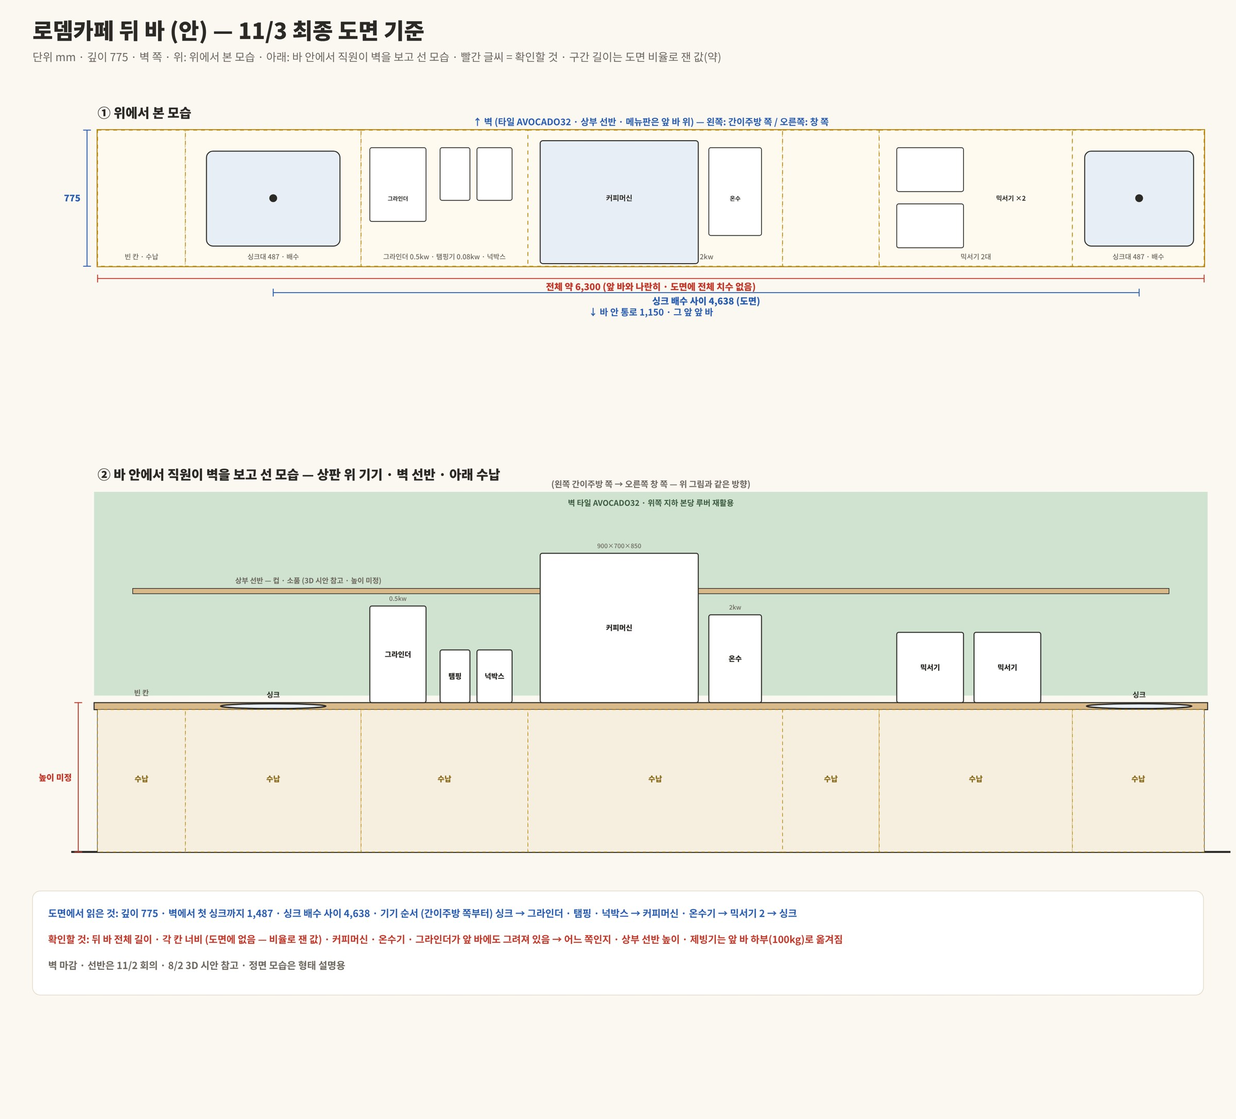
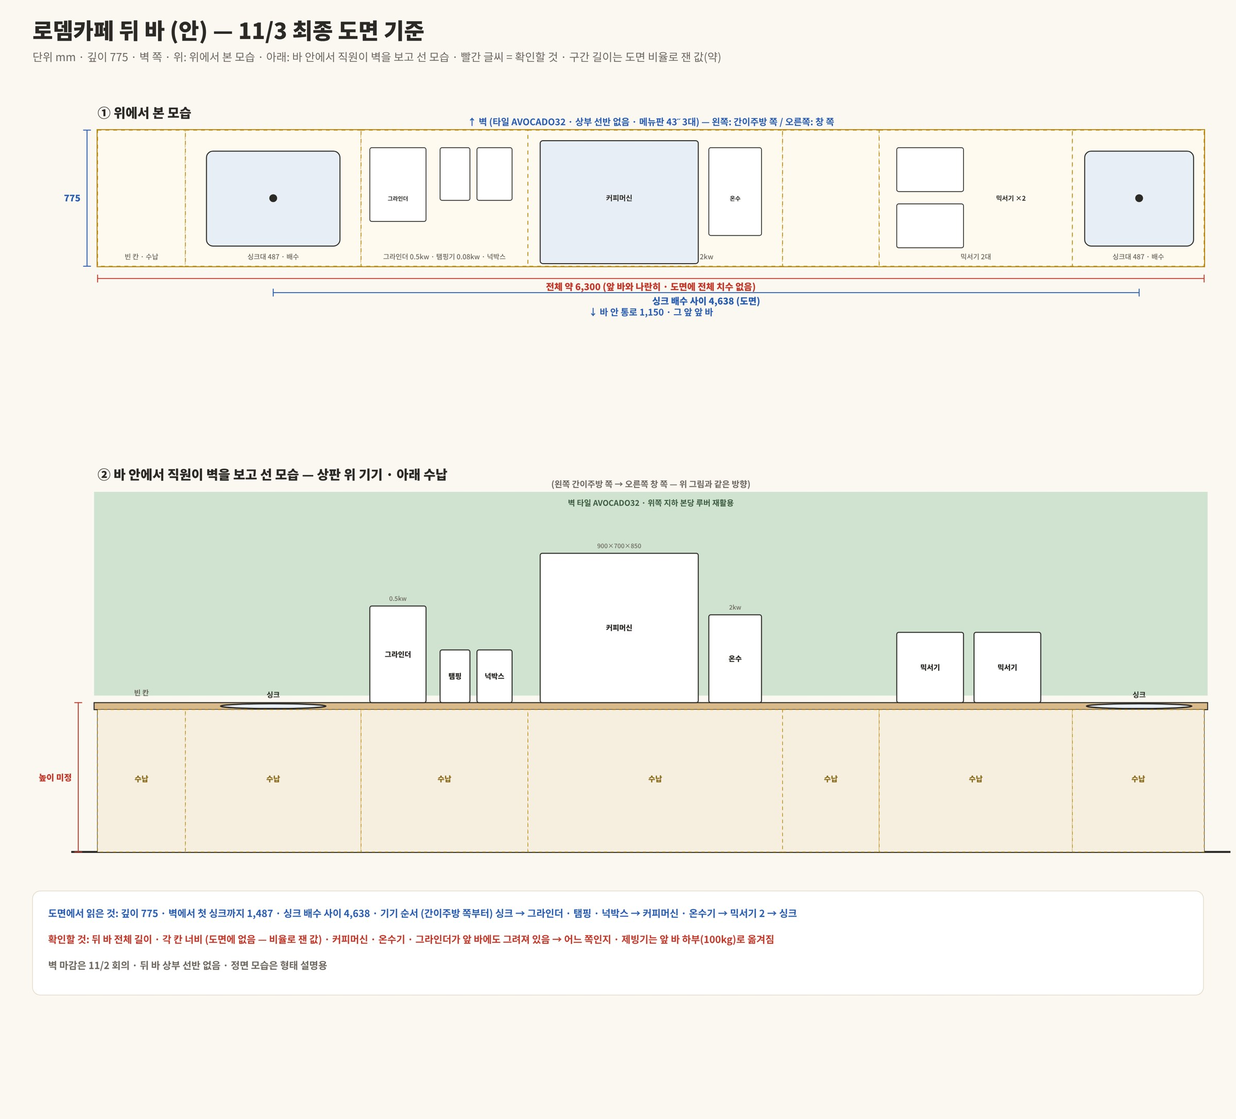
뒤 바 상부 선반 없음 — 그림·스펙에서 제거
Claude-Session: https://claude.ai/code/session_01KGSeNsWMpvg4KUGj47PaMD

diff --git a/gsmch-1f-cafe-bars.html b/gsmch-1f-cafe-bars.html
@@ -21,6 +21,6 @@ h1{font-family:'Gowun Batang',serif;font-size:28px;margin:18px 0 4px}.lead{color
 <h1>로뎀카페 공간 그림 (안) — 9장</h1>
 <p class="lead">11/3 최종 도면 치수와 11/2 현장 미팅 내용으로 그렸습니다. 파란 글씨는 도면에 적힌 값, 빨간 글씨는 확인할 것입니다. 건축위 · 인테리어 업체와 맞춰 본 뒤 확정합니다.</p>
 <nav class="nav"><a href="#v1">1. 홀 전체</a><a href="#v2">2. 앞 바 — 손님이 보는 모습 (도면 ELE.02)</a><a href="#v3">3. 카페 안에서 본 정면 · 주문현황판 (도면 ELE.01)</a><a href="#v4">4. 서비스바</a><a href="#v5">5. 앞 바 · 뒤 바 · 서비스바 평면 (11/3 실시설계)</a><a href="#v6">6. 앞 바 (안) — 위에서 본 모습 · 바 안에서 직원이 서서 본 모습</a><a href="#v7">7. 뒤 바 (안) — 위에서 본 모습 · 직원이 벽을 보고 선 모습</a><a href="#v8">8. 앞 바 — 칸 구성 · 상판 기물 (3D 시안)</a><a href="#v9">9. 뒤 바 — 칸 구성 · 상판 기물 (3D 시안)</a><a href="#v10">10. 뒤 바 — 벽 정면 (도면 ELE.02')</a><a href="#v11">11. 앞 바 반대편 끝 벽 (도면 ELE.04)</a><a href="#v12">12. 간이주방</a><a href="#v13">13. 창고</a><a href="#v14">14. 창 쪽 벽 (도면 ELE.03)</a></nav>
-<section class="page" id="v1"><div class="bar"><b>1. 홀 전체</b><span>위에서 본 모습 · 뒤 바 775 · 통로 1,150 · 앞 바 875 · 서비스바 4,200×700 (앞 바에서 1,600) · 간이주방 · 창고</span><a class="tbtn" href="img/gsmch-1f-cafe-view-1.jpg" download="gsmch_카페_1_홀 전체_1104.jpg">JPG</a></div><img src="img/gsmch-1f-cafe-view-1.jpg" alt="홀 전체" loading="lazy"><div class="cap"><b>확인할 것</b> 메뉴판 3대는 뒤 바 위, 현황판은 정면 가운데 위 · 반납함 · 키오스크 자리 확인</div></section><section class="page" id="v2"><div class="bar"><b>2. 앞 바 — 손님이 보는 모습 (도면 ELE.02)</b><span>9,645 = 루버 벽 2,450 + 7,195 · 앞 바 높이 1,050 · 사인 띠 450 · 메뉴판 43˝ 3대 970×558 (1,842~2,400) · 키오스크 매립 450</span><a class="tbtn" href="img/gsmch-1f-cafe-view-2.jpg" download="gsmch_카페_2_앞 바_1104.jpg">JPG</a></div><img src="img/gsmch-1f-cafe-view-2.jpg" alt="앞 바 — 손님이 보는 모습 (도면 ELE.02)" loading="lazy"><div class="cap"><b>확인할 것</b> 앞 바 시작 위치 · 메뉴판이 앞 바 위인지 뒤 바 위인지(두 도면 모두 표기) · 사인 글자 · 상판 우드톤</div></section><section class="page" id="v3"><div class="bar"><b>3. 카페 안에서 본 정면 · 주문현황판 (도면 ELE.01)</b><span>13,616 × 4,263 · 유리 2,249 + 200 + 루버 1,014 + 상부 800 · 자동문 3,369 · 현황판 43˝ 안쪽 가운데 위</span><a class="tbtn" href="img/gsmch-1f-cafe-view-3.jpg" download="gsmch_카페_3_카페 안에서 본 정면 · 주문현황판_1104.jpg">JPG</a></div><img src="img/gsmch-1f-cafe-view-3.jpg" alt="카페 안에서 본 정면 · 주문현황판 (도면 ELE.01)" loading="lazy"><div class="cap"><b>확인할 것</b> "가운데"가 유리 7,429 가운데인지 자동문 가운데인지 정면 전체 가운데인지 · 높이 · 콘센트 · 루버 보강</div></section><section class="page" id="v4"><div class="bar"><b>4. 서비스바</b><span>4,200 × 700 · 세척 2구 → 음료 버림 → 투입구 4개 → 아이스크림 · 앞 바에서 1,600 떨어진 섬</span><a class="tbtn" href="img/gsmch-1f-cafe-view-4.jpg" download="gsmch_카페_4_서비스바_1104.jpg">JPG</a></div><img src="img/gsmch-1f-cafe-view-4.jpg" alt="서비스바" loading="lazy"><div class="cap"><b>확인할 것</b> 폭 700/600 · 높이 · 다회용컵 투입구 / 반납함 따로 · 선반 깊이</div></section><section class="page" id="v5"><div class="bar"><b>5. 앞 바 · 뒤 바 · 서비스바 평면 (11/3 실시설계)</b><span>뒤 바 775 (싱크 ↔ 싱크 4,638) · 통로 1,150 · 앞 바 875 × 6,295 · 서비스바 700 (1,600 떨어짐) · 급배수 3곳</span><a class="tbtn" href="img/gsmch-1f-cafe-view-5.jpg" download="gsmch_카페_5_앞 바 · 뒤 바 · 서비스바 평면_1104.jpg">JPG</a></div><img src="img/gsmch-1f-cafe-view-5.jpg" alt="앞 바 · 뒤 바 · 서비스바 평면 (11/3 실시설계)" loading="lazy"><div class="cap"><b>확인할 것</b> 커피머신 · 온수기 어느 바인지(앞 바 점선) · 서비스바 폭 · 반납함 매립 여부</div></section><section class="page" id="v6"><div class="bar"><b>6. 앞 바 (안) — 위에서 본 모습 · 바 안에서 직원이 서서 본 모습</b><span>875 × 6,295 = 1,230 · 1,100 · 400 · 1,250 · 800 · 1,215 (칸 사이 60×5) · 하부: 쇼케이스 · 하부가구 · 넉박스 휴지통 · 연수필터 · (토핑)냉장고 · 제빙기</span><a class="tbtn" href="img/gsmch-1f-cafe-view-6.jpg" download="gsmch_카페_6_앞 바_1104.jpg">JPG</a></div><img src="img/gsmch-1f-cafe-view-6.jpg" alt="앞 바 (안) — 위에서 본 모습 · 바 안에서 직원이 서서 본 모습" loading="lazy"><div class="cap"><b>확인할 것</b> 커피머신 · 온수기 · 그라인더 · 탬핑기 어느 바인지 · 앞 바 깊이 875/825/830 · 높이 · 개폐형 상판</div></section><section class="page" id="v7"><div class="bar"><b>7. 뒤 바 (안) — 위에서 본 모습 · 직원이 벽을 보고 선 모습</b><span>775 · 싱크 ↔ 싱크 4,638 · 싱크 → 그라인더 · 탬핑 · 넉박스 → 커피머신 · 온수기 → 믹서기 2 → 싱크 (칸 너비는 비율로 잰 값 — 실제 칸 치수는 9번 3D)</span><a class="tbtn" href="img/gsmch-1f-cafe-view-7.jpg" download="gsmch_카페_7_뒤 바_1104.jpg">JPG</a></div><img src="img/gsmch-1f-cafe-view-7.jpg" alt="뒤 바 (안) — 위에서 본 모습 · 직원이 벽을 보고 선 모습" loading="lazy"><div class="cap"><b>확인할 것</b> 뒤 바 전체 길이 · 상부 선반 높이 · 커피머신 어느 바인지</div></section><section class="page" id="v8"><div class="bar"><b>8. 앞 바 — 칸 구성 · 상판 기물 (3D 시안)</b><span>500 · 868 · 800(하부 제빙기) · 1,250(1200 냉장고) · 400 · 500(3단 서랍장) · 500 · 1,230(쇼케이스) · 50 · RETURN/PICK UP 1,500 · 상판 860</span><a class="tbtn" href="img/gsmch-1f-cafe-view-8.jpg" download="gsmch_카페_8_앞 바_1104.jpg">JPG</a></div><img src="img/gsmch-1f-cafe-view-8.jpg" alt="앞 바 — 칸 구성 · 상판 기물 (3D 시안)" loading="lazy"><div class="cap"><b>확인할 것</b> 칸 합 6,098 vs 3D 표기 6,945 · 상판 860(3D) vs 1,050(도면) · 커피머신 어느 바인지</div></section><section class="page" id="v9"><div class="bar"><b>9. 뒤 바 — 칸 구성 · 상판 기물 (3D 시안)</b><span>600 · 950(싱크) · 400 · 350 · 1,250(1200 냉장고) · 450 · 950(900 냉동고) · 736 · 889(제빙기) · 상부 선반 2,300×300 상판에서 650 · 상판 860</span><a class="tbtn" href="img/gsmch-1f-cafe-view-9.jpg" download="gsmch_카페_9_뒤 바_1104.jpg">JPG</a></div><img src="img/gsmch-1f-cafe-view-9.jpg" alt="뒤 바 — 칸 구성 · 상판 기물 (3D 시안)" loading="lazy"><div class="cap"><b>확인할 것</b> 칸 합 6,575 vs 3D 표기 6,945 · 상판 860(3D) vs 하부장 924(도면) · 제빙기 스탠드 vs 언더카운터</div></section><section class="page" id="v10"><div class="bar"><b>10. 뒤 바 — 벽 정면 (도면 ELE.02')</b><span>9,995 = 2,870 + 7,125 · 하부장 924 (285 · 1,950 · 830 · 918 · 1,725 · 900) · 메뉴판 2,910×558 · 슬라이딩도어 2,400</span><a class="tbtn" href="img/gsmch-1f-cafe-view-10.jpg" download="gsmch_카페_10_뒤 바_1104.jpg">JPG</a></div><img src="img/gsmch-1f-cafe-view-10.jpg" alt="뒤 바 — 벽 정면 (도면 ELE.02')" loading="lazy"><div class="cap"><b>확인할 것</b> 벽에 긴 우드 선반이 달리는지(도면엔 하부장 선반 필름 표기만 · 3D엔 2,300×300 선반) · 오른쪽 점선 박스 · 메뉴판 위치</div></section><section class="page" id="v11"><div class="bar"><b>11. 앞 바 반대편 끝 벽 (도면 ELE.04)</b><span>9,313 · 붙박이 쇼파 450 + 등받이 700 · 루버 띠 600 · 갤러리 도어 805 · 1,287 (스탠딩 냉난방)</span><a class="tbtn" href="img/gsmch-1f-cafe-view-11.jpg" download="gsmch_카페_11_앞 바 반대편 끝 벽_1104.jpg">JPG</a></div><img src="img/gsmch-1f-cafe-view-11.jpg" alt="앞 바 반대편 끝 벽 (도면 ELE.04)" loading="lazy"><div class="cap"><b>확인할 것</b> 쇼파 길이(도어 자리 제외) · 스탠딩 냉난방 자리</div></section><section class="page" id="v12"><div class="bar"><b>12. 간이주방</b><span>2,870 × 2,300 · 4도어 냉동(장)고 1,260×800×1,900 (세로로) · 빈 공간 1,120 · 분전함 · 창고와 문 없이 뚫림</span><a class="tbtn" href="img/gsmch-1f-cafe-view-12.jpg" download="gsmch_카페_12_간이주방_1104.jpg">JPG</a></div><img src="img/gsmch-1f-cafe-view-12.jpg" alt="간이주방" loading="lazy"><div class="cap"><b>확인할 것</b> 빈 공간 쓰임(선반?) · 바 쪽 문 자물쇠</div></section><section class="page" id="v13"><div class="bar"><b>13. 창고</b><span>약 1,670 × 1,650 (추정) · 앵글장 확정 · 바깥 문 875 밖으로 열림 · 오른쪽은 간이주방으로 뚫림 (아무것도 안 둠)</span><a class="tbtn" href="img/gsmch-1f-cafe-view-13.jpg" download="gsmch_카페_13_창고_1104.jpg">JPG</a></div><img src="img/gsmch-1f-cafe-view-13.jpg" alt="창고" loading="lazy"><div class="cap"><b>확인할 것</b> 창고 치수(추정) · 선반 제작은 어디에 · 바깥 문 자물쇠</div></section><section class="page" id="v14"><div class="bar"><b>14. 창 쪽 벽 (도면 ELE.03)</b><span>16,416 · 신규 창호 1,670 · 6,088 (십자 프레임) · 1,695 · 창 높이 450 + 2,400 + 80 + 963 · 블라인드 없음</span><a class="tbtn" href="img/gsmch-1f-cafe-view-14.jpg" download="gsmch_카페_14_창 쪽 벽_1104.jpg">JPG</a></div><img src="img/gsmch-1f-cafe-view-14.jpg" alt="창 쪽 벽 (도면 ELE.03)" loading="lazy"><div class="cap"><b>확인할 것</b> 창 쪽 테이블 배치</div></section>
+<section class="page" id="v1"><div class="bar"><b>1. 홀 전체</b><span>위에서 본 모습 · 뒤 바 775 · 통로 1,150 · 앞 바 875 · 서비스바 4,200×700 (앞 바에서 1,600) · 간이주방 · 창고</span><a class="tbtn" href="img/gsmch-1f-cafe-view-1.jpg" download="gsmch_카페_1_홀 전체_1104.jpg">JPG</a></div><img src="img/gsmch-1f-cafe-view-1.jpg" alt="홀 전체" loading="lazy"><div class="cap"><b>확인할 것</b> 메뉴판 3대는 뒤 바 위, 현황판은 정면 가운데 위 · 반납함 · 키오스크 자리 확인</div></section><section class="page" id="v2"><div class="bar"><b>2. 앞 바 — 손님이 보는 모습 (도면 ELE.02)</b><span>9,645 = 루버 벽 2,450 + 7,195 · 앞 바 높이 1,050 · 사인 띠 450 · 메뉴판 43˝ 3대 970×558 (1,842~2,400) · 키오스크 매립 450</span><a class="tbtn" href="img/gsmch-1f-cafe-view-2.jpg" download="gsmch_카페_2_앞 바_1104.jpg">JPG</a></div><img src="img/gsmch-1f-cafe-view-2.jpg" alt="앞 바 — 손님이 보는 모습 (도면 ELE.02)" loading="lazy"><div class="cap"><b>확인할 것</b> 앞 바 시작 위치 · 메뉴판이 앞 바 위인지 뒤 바 위인지(두 도면 모두 표기) · 사인 글자 · 상판 우드톤</div></section><section class="page" id="v3"><div class="bar"><b>3. 카페 안에서 본 정면 · 주문현황판 (도면 ELE.01)</b><span>13,616 × 4,263 · 유리 2,249 + 200 + 루버 1,014 + 상부 800 · 자동문 3,369 · 현황판 43˝ 안쪽 가운데 위</span><a class="tbtn" href="img/gsmch-1f-cafe-view-3.jpg" download="gsmch_카페_3_카페 안에서 본 정면 · 주문현황판_1104.jpg">JPG</a></div><img src="img/gsmch-1f-cafe-view-3.jpg" alt="카페 안에서 본 정면 · 주문현황판 (도면 ELE.01)" loading="lazy"><div class="cap"><b>확인할 것</b> "가운데"가 유리 7,429 가운데인지 자동문 가운데인지 정면 전체 가운데인지 · 높이 · 콘센트 · 루버 보강</div></section><section class="page" id="v4"><div class="bar"><b>4. 서비스바</b><span>4,200 × 700 · 세척 2구 → 음료 버림 → 투입구 4개 → 아이스크림 · 앞 바에서 1,600 떨어진 섬</span><a class="tbtn" href="img/gsmch-1f-cafe-view-4.jpg" download="gsmch_카페_4_서비스바_1104.jpg">JPG</a></div><img src="img/gsmch-1f-cafe-view-4.jpg" alt="서비스바" loading="lazy"><div class="cap"><b>확인할 것</b> 폭 700/600 · 높이 · 다회용컵 투입구 / 반납함 따로 · 선반 깊이</div></section><section class="page" id="v5"><div class="bar"><b>5. 앞 바 · 뒤 바 · 서비스바 평면 (11/3 실시설계)</b><span>뒤 바 775 (싱크 ↔ 싱크 4,638) · 통로 1,150 · 앞 바 875 × 6,295 · 서비스바 700 (1,600 떨어짐) · 급배수 3곳</span><a class="tbtn" href="img/gsmch-1f-cafe-view-5.jpg" download="gsmch_카페_5_앞 바 · 뒤 바 · 서비스바 평면_1104.jpg">JPG</a></div><img src="img/gsmch-1f-cafe-view-5.jpg" alt="앞 바 · 뒤 바 · 서비스바 평면 (11/3 실시설계)" loading="lazy"><div class="cap"><b>확인할 것</b> 커피머신 · 온수기 어느 바인지(앞 바 점선) · 서비스바 폭 · 반납함 매립 여부</div></section><section class="page" id="v6"><div class="bar"><b>6. 앞 바 (안) — 위에서 본 모습 · 바 안에서 직원이 서서 본 모습</b><span>875 × 6,295 = 1,230 · 1,100 · 400 · 1,250 · 800 · 1,215 (칸 사이 60×5) · 하부: 쇼케이스 · 하부가구 · 넉박스 휴지통 · 연수필터 · (토핑)냉장고 · 제빙기</span><a class="tbtn" href="img/gsmch-1f-cafe-view-6.jpg" download="gsmch_카페_6_앞 바_1104.jpg">JPG</a></div><img src="img/gsmch-1f-cafe-view-6.jpg" alt="앞 바 (안) — 위에서 본 모습 · 바 안에서 직원이 서서 본 모습" loading="lazy"><div class="cap"><b>확인할 것</b> 커피머신 · 온수기 · 그라인더 · 탬핑기 어느 바인지 · 앞 바 깊이 875/825/830 · 높이 · 개폐형 상판</div></section><section class="page" id="v7"><div class="bar"><b>7. 뒤 바 (안) — 위에서 본 모습 · 직원이 벽을 보고 선 모습</b><span>775 · 싱크 ↔ 싱크 4,638 · 싱크 → 그라인더 · 탬핑 · 넉박스 → 커피머신 · 온수기 → 믹서기 2 → 싱크 (칸 너비는 비율로 잰 값 — 실제 칸 치수는 9번 3D)</span><a class="tbtn" href="img/gsmch-1f-cafe-view-7.jpg" download="gsmch_카페_7_뒤 바_1104.jpg">JPG</a></div><img src="img/gsmch-1f-cafe-view-7.jpg" alt="뒤 바 (안) — 위에서 본 모습 · 직원이 벽을 보고 선 모습" loading="lazy"><div class="cap"><b>확인할 것</b> 뒤 바 전체 길이 · 커피머신 어느 바인지</div></section><section class="page" id="v8"><div class="bar"><b>8. 앞 바 — 칸 구성 · 상판 기물 (3D 시안)</b><span>500 · 868 · 800(하부 제빙기) · 1,250(1200 냉장고) · 400 · 500(3단 서랍장) · 500 · 1,230(쇼케이스) · 50 · RETURN/PICK UP 1,500 · 상판 860</span><a class="tbtn" href="img/gsmch-1f-cafe-view-8.jpg" download="gsmch_카페_8_앞 바_1104.jpg">JPG</a></div><img src="img/gsmch-1f-cafe-view-8.jpg" alt="앞 바 — 칸 구성 · 상판 기물 (3D 시안)" loading="lazy"><div class="cap"><b>확인할 것</b> 칸 합 6,098 vs 3D 표기 6,945 · 상판 860(3D) vs 1,050(도면) · 커피머신 어느 바인지</div></section><section class="page" id="v9"><div class="bar"><b>9. 뒤 바 — 칸 구성 · 상판 기물 (3D 시안)</b><span>600 · 950(싱크) · 400 · 350 · 1,250(1200 냉장고) · 450 · 950(900 냉동고) · 736 · 889(제빙기) · 상판 860 (3D의 상부 선반은 없음)</span><a class="tbtn" href="img/gsmch-1f-cafe-view-9.jpg" download="gsmch_카페_9_뒤 바_1104.jpg">JPG</a></div><img src="img/gsmch-1f-cafe-view-9.jpg" alt="뒤 바 — 칸 구성 · 상판 기물 (3D 시안)" loading="lazy"><div class="cap"><b>확인할 것</b> 칸 합 6,575 vs 3D 표기 6,945 · 상판 860(3D) vs 하부장 924(도면) · 제빙기 스탠드 vs 언더카운터</div></section><section class="page" id="v10"><div class="bar"><b>10. 뒤 바 — 벽 정면 (도면 ELE.02')</b><span>9,995 = 2,870 + 7,125 · 하부장 924 (285 · 1,950 · 830 · 918 · 1,725 · 900) · 메뉴판 2,910×558 · 슬라이딩도어 2,400</span><a class="tbtn" href="img/gsmch-1f-cafe-view-10.jpg" download="gsmch_카페_10_뒤 바_1104.jpg">JPG</a></div><img src="img/gsmch-1f-cafe-view-10.jpg" alt="뒤 바 — 벽 정면 (도면 ELE.02')" loading="lazy"><div class="cap"><b>확인할 것</b> 오른쪽 점선 박스 · 메뉴판 위치 (상부 선반 없음)</div></section><section class="page" id="v11"><div class="bar"><b>11. 앞 바 반대편 끝 벽 (도면 ELE.04)</b><span>9,313 · 붙박이 쇼파 450 + 등받이 700 · 루버 띠 600 · 갤러리 도어 805 · 1,287 (스탠딩 냉난방)</span><a class="tbtn" href="img/gsmch-1f-cafe-view-11.jpg" download="gsmch_카페_11_앞 바 반대편 끝 벽_1104.jpg">JPG</a></div><img src="img/gsmch-1f-cafe-view-11.jpg" alt="앞 바 반대편 끝 벽 (도면 ELE.04)" loading="lazy"><div class="cap"><b>확인할 것</b> 쇼파 길이(도어 자리 제외) · 스탠딩 냉난방 자리</div></section><section class="page" id="v12"><div class="bar"><b>12. 간이주방</b><span>2,870 × 2,300 · 4도어 냉동(장)고 1,260×800×1,900 (세로로) · 빈 공간 1,120 · 분전함 · 창고와 문 없이 뚫림</span><a class="tbtn" href="img/gsmch-1f-cafe-view-12.jpg" download="gsmch_카페_12_간이주방_1104.jpg">JPG</a></div><img src="img/gsmch-1f-cafe-view-12.jpg" alt="간이주방" loading="lazy"><div class="cap"><b>확인할 것</b> 빈 공간 쓰임(선반?) · 바 쪽 문 자물쇠</div></section><section class="page" id="v13"><div class="bar"><b>13. 창고</b><span>약 1,670 × 1,650 (추정) · 앵글장 확정 · 바깥 문 875 밖으로 열림 · 오른쪽은 간이주방으로 뚫림 (아무것도 안 둠)</span><a class="tbtn" href="img/gsmch-1f-cafe-view-13.jpg" download="gsmch_카페_13_창고_1104.jpg">JPG</a></div><img src="img/gsmch-1f-cafe-view-13.jpg" alt="창고" loading="lazy"><div class="cap"><b>확인할 것</b> 창고 치수(추정) · 선반 제작은 어디에 · 바깥 문 자물쇠</div></section><section class="page" id="v14"><div class="bar"><b>14. 창 쪽 벽 (도면 ELE.03)</b><span>16,416 · 신규 창호 1,670 · 6,088 (십자 프레임) · 1,695 · 창 높이 450 + 2,400 + 80 + 963 · 블라인드 없음</span><a class="tbtn" href="img/gsmch-1f-cafe-view-14.jpg" download="gsmch_카페_14_창 쪽 벽_1104.jpg">JPG</a></div><img src="img/gsmch-1f-cafe-view-14.jpg" alt="창 쪽 벽 (도면 ELE.03)" loading="lazy"><div class="cap"><b>확인할 것</b> 창 쪽 테이블 배치</div></section>
 <p class="foot">선한목자교회 총여선교회 사업단 · 1층 성전보수</p>
 </div></body></html>

diff --git a/tools-cafe-draw/back.py b/tools-cafe-draw/back.py
@@ -7,7 +7,7 @@ X=lambda mm:OX+mm*S;Y=lambda mm:OY+mm*S
 seg=[(0,500,'(끝)','빈 칸 · 수납',''),(500,1000,'싱크','싱크대 487 · 배수',''),(1500,950,'그라인더 · 탬핑','그라인더 0.5kw · 탬핑기 0.08kw · 넉박스',''),
      (2450,1450,'커피존','커피머신 900×700×850 · 온수기 2kw',''),(3900,550,'(여유)','',''),(4450,1100,'믹서기','믹서기 2대',''),(5550,750,'싱크','싱크대 487 · 배수','')]
 T(o,X(0),Y(-70),'① 위에서 본 모습',20,900,INK,'start')
-T(o,X(L/2),Y(-28),'↑ 벽 (타일 AVOCADO32 · 상부 선반 · 메뉴판은 앞 바 위)   — 왼쪽: 간이주방 쪽 / 오른쪽: 창 쪽',14,700,BL)
+T(o,X(L/2),Y(-28),'↑ 벽 (타일 AVOCADO32 · 상부 선반 없음 · 메뉴판 43˝ 3대)   — 왼쪽: 간이주방 쪽 / 오른쪽: 창 쪽',14,700,BL)
 R(o,X(0),Y(0),L*S,D*S,'#fff7e2',GO,3)
 for st,ln,nm,top,_ in seg:
     R(o,X(st),Y(0),ln*S,D*S,'#fffaf0',GO,1.2,0,'6 4'); T(o,X(st+ln/2),Y(D-40),top,10.5,500,MUT)
@@ -23,12 +23,12 @@ DIM(o,X(1000),Y(D+150),X(5930),Y(D+150),'싱크 배수 사이 4,638 (도면)',BL
 DIM(o,X(-60),Y(0),X(-60),Y(D),'775',BL,10)
 T(o,X(L/2),Y(D+280),'↓ 바 안 통로 1,150 · 그 앞 앞 바',14,700,BL)
 OY2=1080;HT=850;Yf=lambda mm:OY2+mm*S
-T(o,X(0),Yf(-1270),'② 바 안에서 직원이 벽을 보고 선 모습 — 상판 위 기기 · 벽 선반 · 아래 수납',20,900,INK,'start')
+T(o,X(0),Yf(-1270),'② 바 안에서 직원이 벽을 보고 선 모습 — 상판 위 기기 · 아래 수납',20,900,INK,'start')
 T(o,X(L/2),Yf(-1225),'(왼쪽 간이주방 쪽 → 오른쪽 창 쪽 — 위 그림과 같은 방향)',13,600,MUT)
 o.append(f'<line x1="{X(-150)}" y1="{Yf(HT)}" x2="{X(L+150)}" y2="{Yf(HT)}" stroke="{INK}" stroke-width="3"/>')
 # wall tiles above
 R(o,X(-20),Yf(-1200),(L+40)*S,1160*S,TILE,'none'); T(o,X(L/2),Yf(-1120),'벽 타일 AVOCADO32 · 위쪽 지하 본당 루버 재활용',12,600,'#3d5c3f')
-R(o,X(200),Yf(-650),(L-400)*S,30*S,WOOD,INK,1); T(o,X(1200),Yf(-680),'상부 선반 — 컵 · 소품 (3D 시안 참고 · 높이 미정)',11,600,MUT)
+
 R(o,X(-20),Yf(0),(L+40)*S,40*S,WOOD,INK,1.5)
 R(o,X(0),Yf(40),L*S,(HT-40)*S,'#efe3cf',INK,1.5)
 for st,ln,nm,top,_ in seg:
@@ -42,6 +42,6 @@ box(4550,380,400,'믹서기');box(4990,380,400,'믹서기')
 T(o,X(250),Yf(-40),'빈 칸',11,700,MUT)
 DIM(o,X(-110),Yf(0),X(-110),Yf(HT),'높이 미정',RED,10,13)
 NOTES(o,Yf(HT)+60,[(BL,'도면에서 읽은 것: 깊이 775 · 벽에서 첫 싱크까지 1,487 · 싱크 배수 사이 4,638 · 기기 순서 (간이주방 쪽부터) 싱크 → 그라인더 · 탬핑 · 넉박스 → 커피머신 · 온수기 → 믹서기 2 → 싱크'),
- (RED,'확인할 것: 뒤 바 전체 길이 · 각 칸 너비 (도면에 없음 — 비율로 잰 값) · 커피머신 · 온수기 · 그라인더가 앞 바에도 그려져 있음 → 어느 쪽인지 · 상부 선반 높이 · 제빙기는 앞 바 하부(100kg)로 옮겨짐'),
- (MUT,'벽 마감 · 선반은 11/2 회의 · 8/2 3D 시안 참고 · 정면 모습은 형태 설명용')],W)
+ (RED,'확인할 것: 뒤 바 전체 길이 · 각 칸 너비 (도면에 없음 — 비율로 잰 값) · 커피머신 · 온수기 · 그라인더가 앞 바에도 그려져 있음 → 어느 쪽인지 · 제빙기는 앞 바 하부(100kg)로 옮겨짐'),
+ (MUT,'벽 마감은 11/2 회의 · 뒤 바 상부 선반 없음 · 정면 모습은 형태 설명용')],W)
 save(o,W,H,'back.svg')

diff --git a/tools-cafe-draw/bar3d.py b/tools-cafe-draw/bar3d.py
@@ -27,12 +27,10 @@ if MODE=='back':
     R(o,X(5936),Yg(CH+900),889*S,(CH+900)*S,'#fff',INK,1.5,3);T(o,X(5936+444),Yg(CH+450),'제빙기 스탠드',11,800,INK);T(o,X(5936+444),Yg(CH+300),'850 · 920 (3D 표기)',9.5,700,MUT)
     # 상부 선반 2,300×300 · 상판에서 650
     sx=2300+150+300
-    R(o,X(sx),Yg(CH+650+40),2300*S,40*S,WOOD,INK,1.2);T(o,X(sx+1150),Yg(CH+650+40)-8,'상부 선반 2,300 × 300 (깊이) · 상판에서 650',11,800,'#6e5a3a')
-    DIM(o,X(5700),Yg(CH),X(5700),Yg(CH+650),'650',BL,-10,11)
     o.append(f'<line x1="{X(-100)}" y1="{base}" x2="{X(tot+100)}" y2="{base}" stroke="{INK}" stroke-width="3"/>')
     DIM(o,X(-100),Yg(0),X(-100),Yg(CH),'860',BL,10,12)
     DIM(o,X(0),base+70,X(tot),base+70,f'3D 표기 전체 6,945 (칸 합 {tot:,})',BL,18,13)
-    NOTES(o,base+110,[(BL,'3D 시안 「뒤 바 · 벽 쪽 정면」: 600 · 950 · 400 · 350 · 1,250 · 450 · 950 · 736 · 889 · 상부 선반 2,300 × 300 · 상판에서 650 · 상판 860 · 제빙기 850/920'),
+    NOTES(o,base+110,[(BL,'3D 시안 「뒤 바 · 벽 쪽 정면」: 600 · 950 · 400 · 350 · 1,250 · 450 · 950 · 736 · 889 · 상판 860 · 제빙기 850/920 — 3D의 상부 선반 2,300×300은 그리지 않음(뒤 바 상부 선반 없음)'),
      (RED,f'확인: 칸 합계 {tot:,} ≠ 3D 전체 표기 6,945 · 상판 860(3D) vs 하부장 924(도면 ELE.02\') · 커피머신이 앞 바 · 뒤 바 3D 둘 다에 있음 — 어느 바인지 · 제빙기 스탠드(뒤 바) vs 언더카운터(앞 바)')],W)
     apply_overlays(o,'back3d',X,Yg);save(o,W,H,'bar3d_back.svg')
 else:
